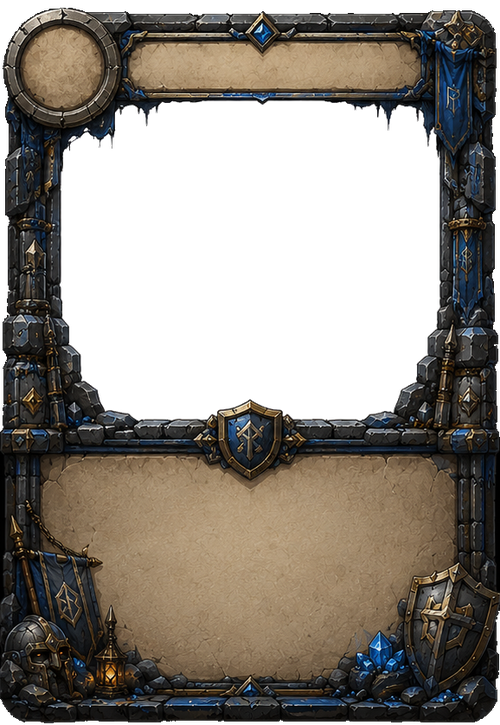
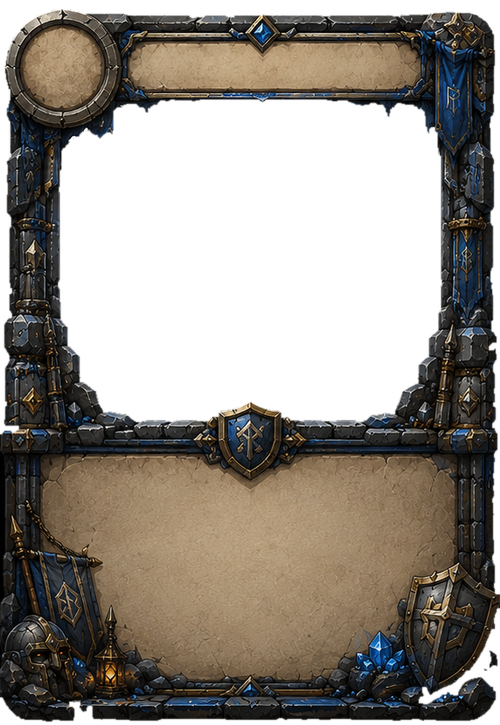
[visuel] Cadres de cartes : détourage nettoyé (plus de liseré clair résiduel)
Le détourage binaire laissait un liseré d'anti-aliasing clair (« zone morte »
blanchâtre) autour de la fenêtre et des bords. Ajout d'une érosion de l'opacité +
léger flou de l'alpha dans le script : les bords passent net du cadre à la
transparence, sans résidu, en préservant les détails du cadre.

diff --git a/outils/decouper-cadres-cartes.py b/outils/decouper-cadres-cartes.py
@@ -1,16 +1,20 @@
-# Découpe la planche « cadres-cartes-source.png » en 3 cadres transparents.
+# Découpe la planche « cadres-cartes-source.png » en 3 cadres transparents PROPRES.
 # Pour chaque carte : extérieur noir -> transparent, fenêtre blanche -> transparente,
-# le reste (cadre en pierre + parchemin) conservé. Sortie : images/cartes/cadre-*.png
-from PIL import Image, ImageDraw
+# puis NETTOYAGE des liserés d'anti-aliasing (érosion de l'opacité) pour qu'il ne
+# reste aucune « zone morte » claire autour du détourage, et léger adoucissement.
+#   Sortie : images/cartes/cadre-*.png
+from PIL import Image, ImageDraw, ImageFilter
 import os
 
 SRC = "/home/user/Brutal/images/sources/cadres-cartes-source.png"
 OUT = "/home/user/Brutal/images/cartes"
 NOMS = ["cadre-attaque", "cadre-buff", "cadre-defense"]
-LARGEUR = 500           # largeur finale (netteté suffisante, poids raisonnable)
+LARGEUR = 500
 MARK = (255, 0, 255)
-TH_NOIR = 30            # somme des diffs au noir pur : serré, ne mange pas le cadre
-TH_BLANC = 120          # somme des diffs au blanc : capture la fenêtre, épargne le parchemin
+TH_NOIR = 42            # extérieur noir (somme des diffs au noir)
+TH_BLANC = 150          # fenêtre blanche (somme des diffs au blanc)
+EROSION = 5             # MinFilter (5 = ronge 2 px d'opacité) : efface le liseré clair
+FLOU = 0.7             # léger flou de l'alpha : bord net mais pas crénelé
 
 src = Image.open(SRC).convert("RGB")
 W, H = src.size
@@ -19,7 +23,6 @@ rgb = src.load()
 def col_active(x, s=24): return any(max(rgb[x, y]) > s for y in range(0, H, 3))
 def ligne_active(y, x0, x1, s=24): return any(max(rgb[x, y]) > s for x in range(x0, x1, 3))
 
-# Blocs (cartes) séparés par gouttières noires
 blocs = []
 x = 0
 while x < W:
@@ -29,13 +32,12 @@ while x < W:
         if x - x0 > W * 0.1: blocs.append((x0, x))
     else: x += 1
 
-# Bande verticale commune + largeur commune (cartes identiques)
 ys = []
 for (x0, x1) in blocs:
     y0 = 0
     while y0 < H and not ligne_active(y0, x0, x1): y0 += 1
     y1 = H
-    while y1 > y0 and not ligne_active(y1-1, x0, x1): y1 -= 1
+    while y1 > y0 and not ligne_active(y1 - 1, x0, x1): y1 -= 1
     ys.append((y0, y1))
 y0c, y1c = min(y for y, _ in ys), max(y for _, y in ys)
 Lc = min(x1 - x0 for x0, x1 in blocs)
@@ -45,16 +47,21 @@ for i, (x0, x1) in enumerate(blocs):
     cx = (x0 + x1) // 2
     carte = src.crop((cx - Lc // 2, y0c, cx - Lc // 2 + Lc, y1c)).convert("RGB")
     w, h = carte.size
-    # Transparence à pleine résolution (bords nets) AVANT le redimensionnement
-    for c in [(0, 0), (w-1, 0), (0, h-1), (w-1, h-1)]:
-        ImageDraw.floodfill(carte, c, MARK, thresh=TH_NOIR)        # extérieur noir
-    ImageDraw.floodfill(carte, (w // 2, int(h * 0.26)), MARK, thresh=TH_BLANC)  # fenêtre blanche
+    for c in [(0, 0), (w - 1, 0), (0, h - 1), (w - 1, h - 1)]:
+        ImageDraw.floodfill(carte, c, MARK, thresh=TH_NOIR)
+    ImageDraw.floodfill(carte, (w // 2, int(h * 0.26)), MARK, thresh=TH_BLANC)
     rgba = carte.convert("RGBA")
     px = rgba.load()
     for yy in range(h):
         for xx in range(w):
             r, g, b, _ = px[xx, yy]
             if (r, g, b) == MARK: px[xx, yy] = (0, 0, 0, 0)
+    # Nettoyage des bords : éroder l'opacité (mange le liseré clair résiduel),
+    # puis léger flou pour un bord doux. Travail à pleine résolution avant resize.
+    alpha = rgba.getchannel("A")
+    alpha = alpha.filter(ImageFilter.MinFilter(EROSION))
+    alpha = alpha.filter(ImageFilter.GaussianBlur(FLOU))
+    rgba.putalpha(alpha)
     rgba = rgba.resize((LARGEUR, round(h * LARGEUR / w)), Image.LANCZOS)
     out = f"{OUT}/{NOMS[i]}.png"
     rgba.save(out, optimize=True)
